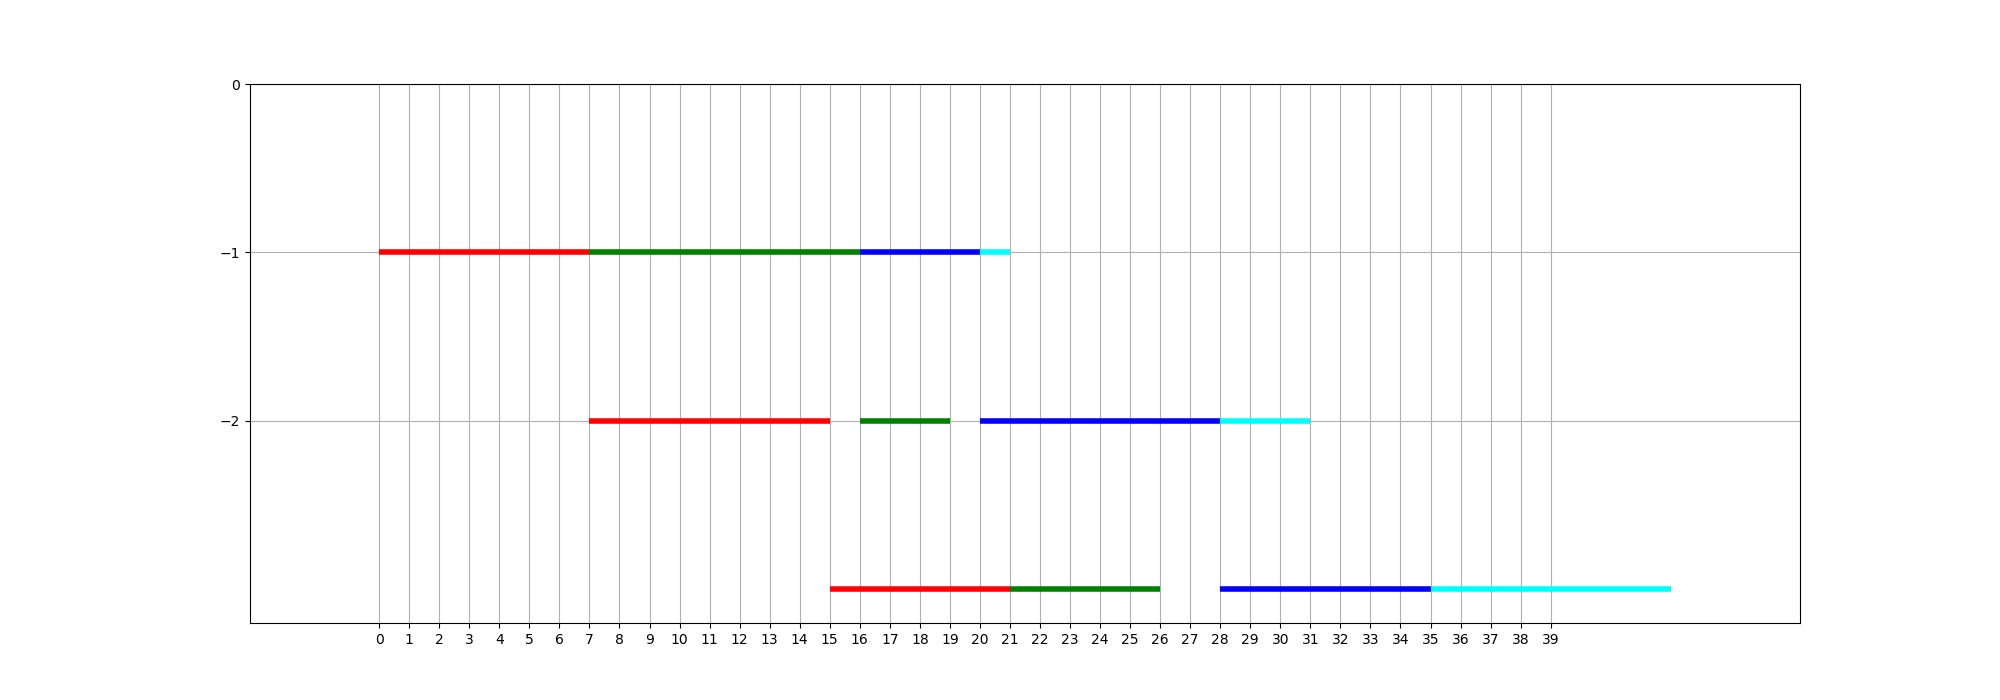
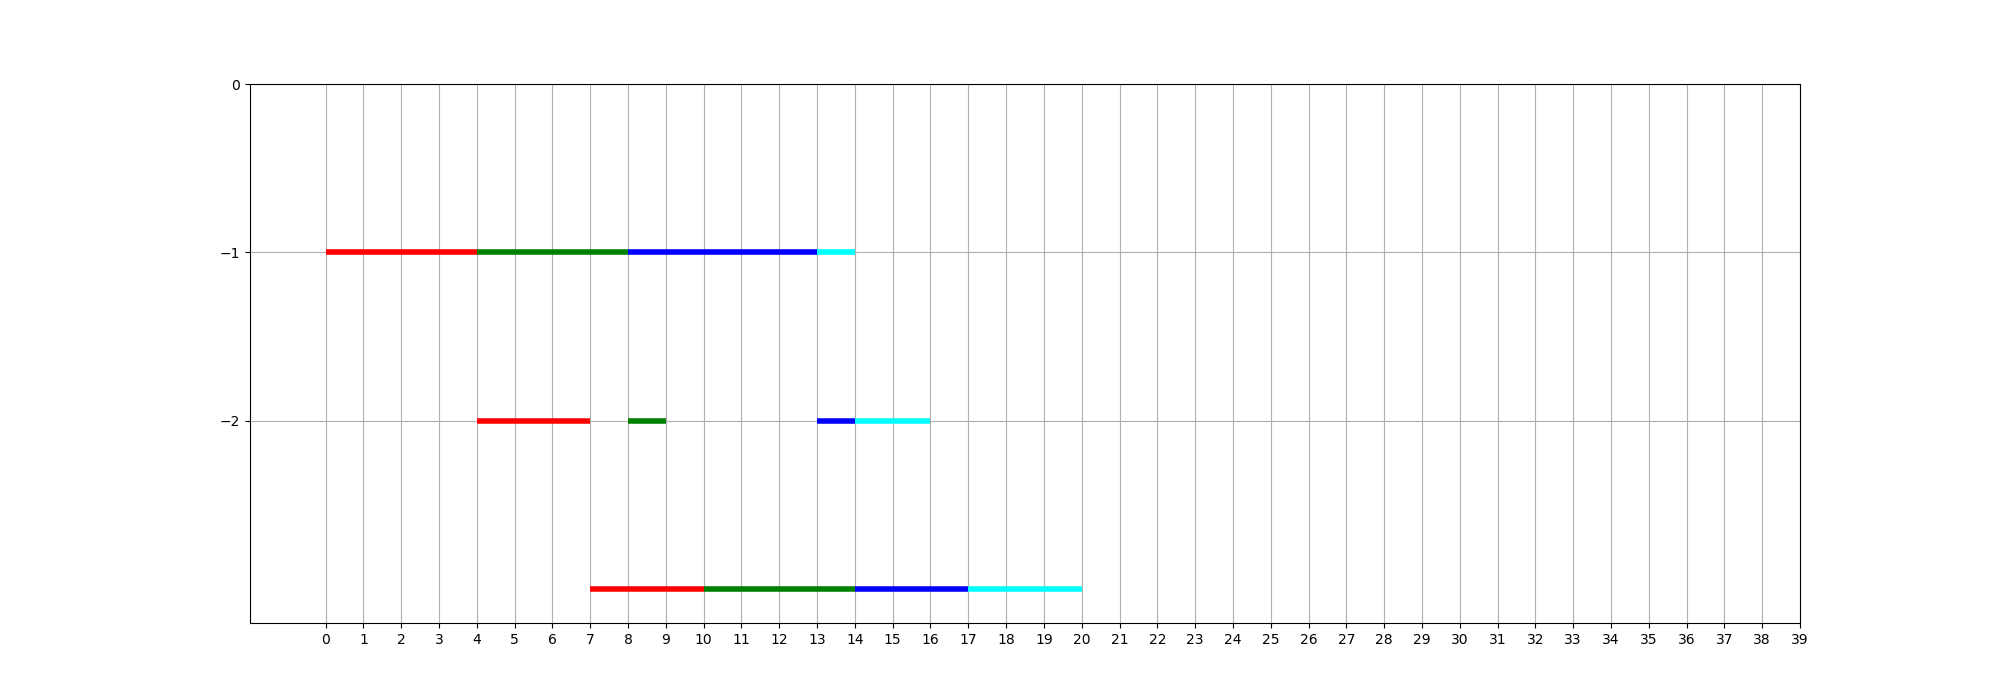
naprawiona funkcja sortujaca

diff --git a/lab2/lab02.py b/lab2/lab02.py
@@ -9,8 +9,8 @@ import matplotlib.pyplot as plt
 import numpy as np
 import time
 
-l_nazwyPlikow=["dwie.txt", "trzy.txt"]
-#l_nazwyPlikow=["trzy.txt"]
+#l_nazwyPlikow=["dwie.txt", "trzy.txt"]
+l_nazwyPlikow=["trzy.txt"]
 
 dwie_nazwaPliku = "dwie.txt"
 trzy_nazwaPliku = "trzy.txt"
@@ -55,33 +55,6 @@ def wizualizacja(arg_liczbaZadan, arg_liczbaMaszyn, arg_kolejnosc, arg_nazwa_pli
     # plt.show()
     plt.savefig(arg_nazwa_pliku)
     plt.close()
-
-def wizualizacjaTrzechMaszyn(arg_liczbaZadan, arg_liczbaMaszyn, arg_kolejnosc, arg_nazwa_pliku):
-    plt.figure(figsize=(20, 7))
-    # wizualizacja maszyny pierwszej
-    plt.hlines(-1, 0, l_czasZakonczenia[0][arg_kolejnosc[0] - 1], colors=kolory[0], lw=4)
-    for i in range(0, len(arg_kolejnosc) - 1):
-        plt.hlines(-1, l_czasZakonczenia[0][arg_kolejnosc[i] - 1], l_czasZakonczenia[0][arg_kolejnosc[i + 1] - 1],
-                   colors=kolory[i + 1],
-                   lw=4)
-    # wizualizacja maszyny drugiej
-    for i in range(0, len(arg_kolejnosc)):
-        plt.hlines(-2, l_czasZakonczenia[1][arg_kolejnosc[i] - 1] - l_czasTrwania[1][arg_kolejnosc[i] - 1],
-                   l_czasZakonczenia[1][arg_kolejnosc[i] - 1], colors=kolory[i], lw=4)
-    # wizualizacja maszyny trzeciej
-    for i in range(0, len(arg_kolejnosc)):
-        plt.hlines(-3, l_czasZakonczenia[2][arg_kolejnosc[i] - 1] - l_czasTrwania[2][arg_kolejnosc[i] - 1],
-                   l_czasZakonczenia[2][arg_kolejnosc[i] - 1], colors=kolory[i], lw=4)
-
-    plt.margins(0.1)
-    plt.grid()
-    plt.xticks(np.arange(0, 40, 1))
-    plt.yticks(np.arange(0, -4, -1))
-   #plt.text(0, 0, "kolejnosc: " + str(arg_kolejnosc) + " || cmax=" + str(arg_cmax))
-    # plt.show()
-    plt.savefig(arg_nazwa_pliku)
-    plt.close()
-
 
 
 def wczytajDaneZPliku(nazwaPliku):
@@ -184,12 +157,31 @@ for nazwaPliku in l_nazwyPlikow:
     a = l_zadania  # tworzenie listy do n zadan#
     posortowana = []
 
+    #tworzenie wektora zsumowanych czasow trwania
+    l_sumaTrwania=[]
+    for z in range(0, m_liczbaZadan):
+        l_sumaTrwania.append(0)
+        for m in range(0, m_liczbaMaszyn):
+            l_sumaTrwania[z]+=l_czasTrwania[m][z]
 
-    for k in range(0, m_liczbaZadan):
-        Max2 = max(czas_wszystkich_zadan_2)
-        index2 = czas_wszystkich_zadan_2.index(Max2)
-        posortowana.append(index2 + 1)
-        czas_wszystkich_zadan_2[index2] = 0
+    print("Suma czasow trwania", l_sumaTrwania)
+
+    posortowana=[]
+    temp=l_sumaTrwania.copy()
+    # sortowania czasow trwania
+    for i in range(0,len(l_sumaTrwania)):
+        tempmax=max(temp)
+        tempindex = temp.index(tempmax)
+        temp[temp.index(tempmax)]=-1000000 # zeby powtornie nie znalazlo tej wartosci
+        posortowana.append(tempindex+1)
+
+    print("posortowana liszta", posortowana)
+
+    # for k in range(0, m_liczbaZadan):
+    #     Max2 = max(czas_wszystkich_zadan_2)
+    #     index2 = czas_wszystkich_zadan_2.index(Max2)
+    #     posortowana.append(index2 + 1)
+    #     czas_wszystkich_zadan_2[index2] = 0
     cmax = przegladKolejnosci(m_liczbaZadan, m_liczbaMaszyn,  posortowana)
     print("--Posortowana lista dla", m_liczbaMaszyn,  "maszyn: ", posortowana)
     print("--Cmax = ", cmax)
